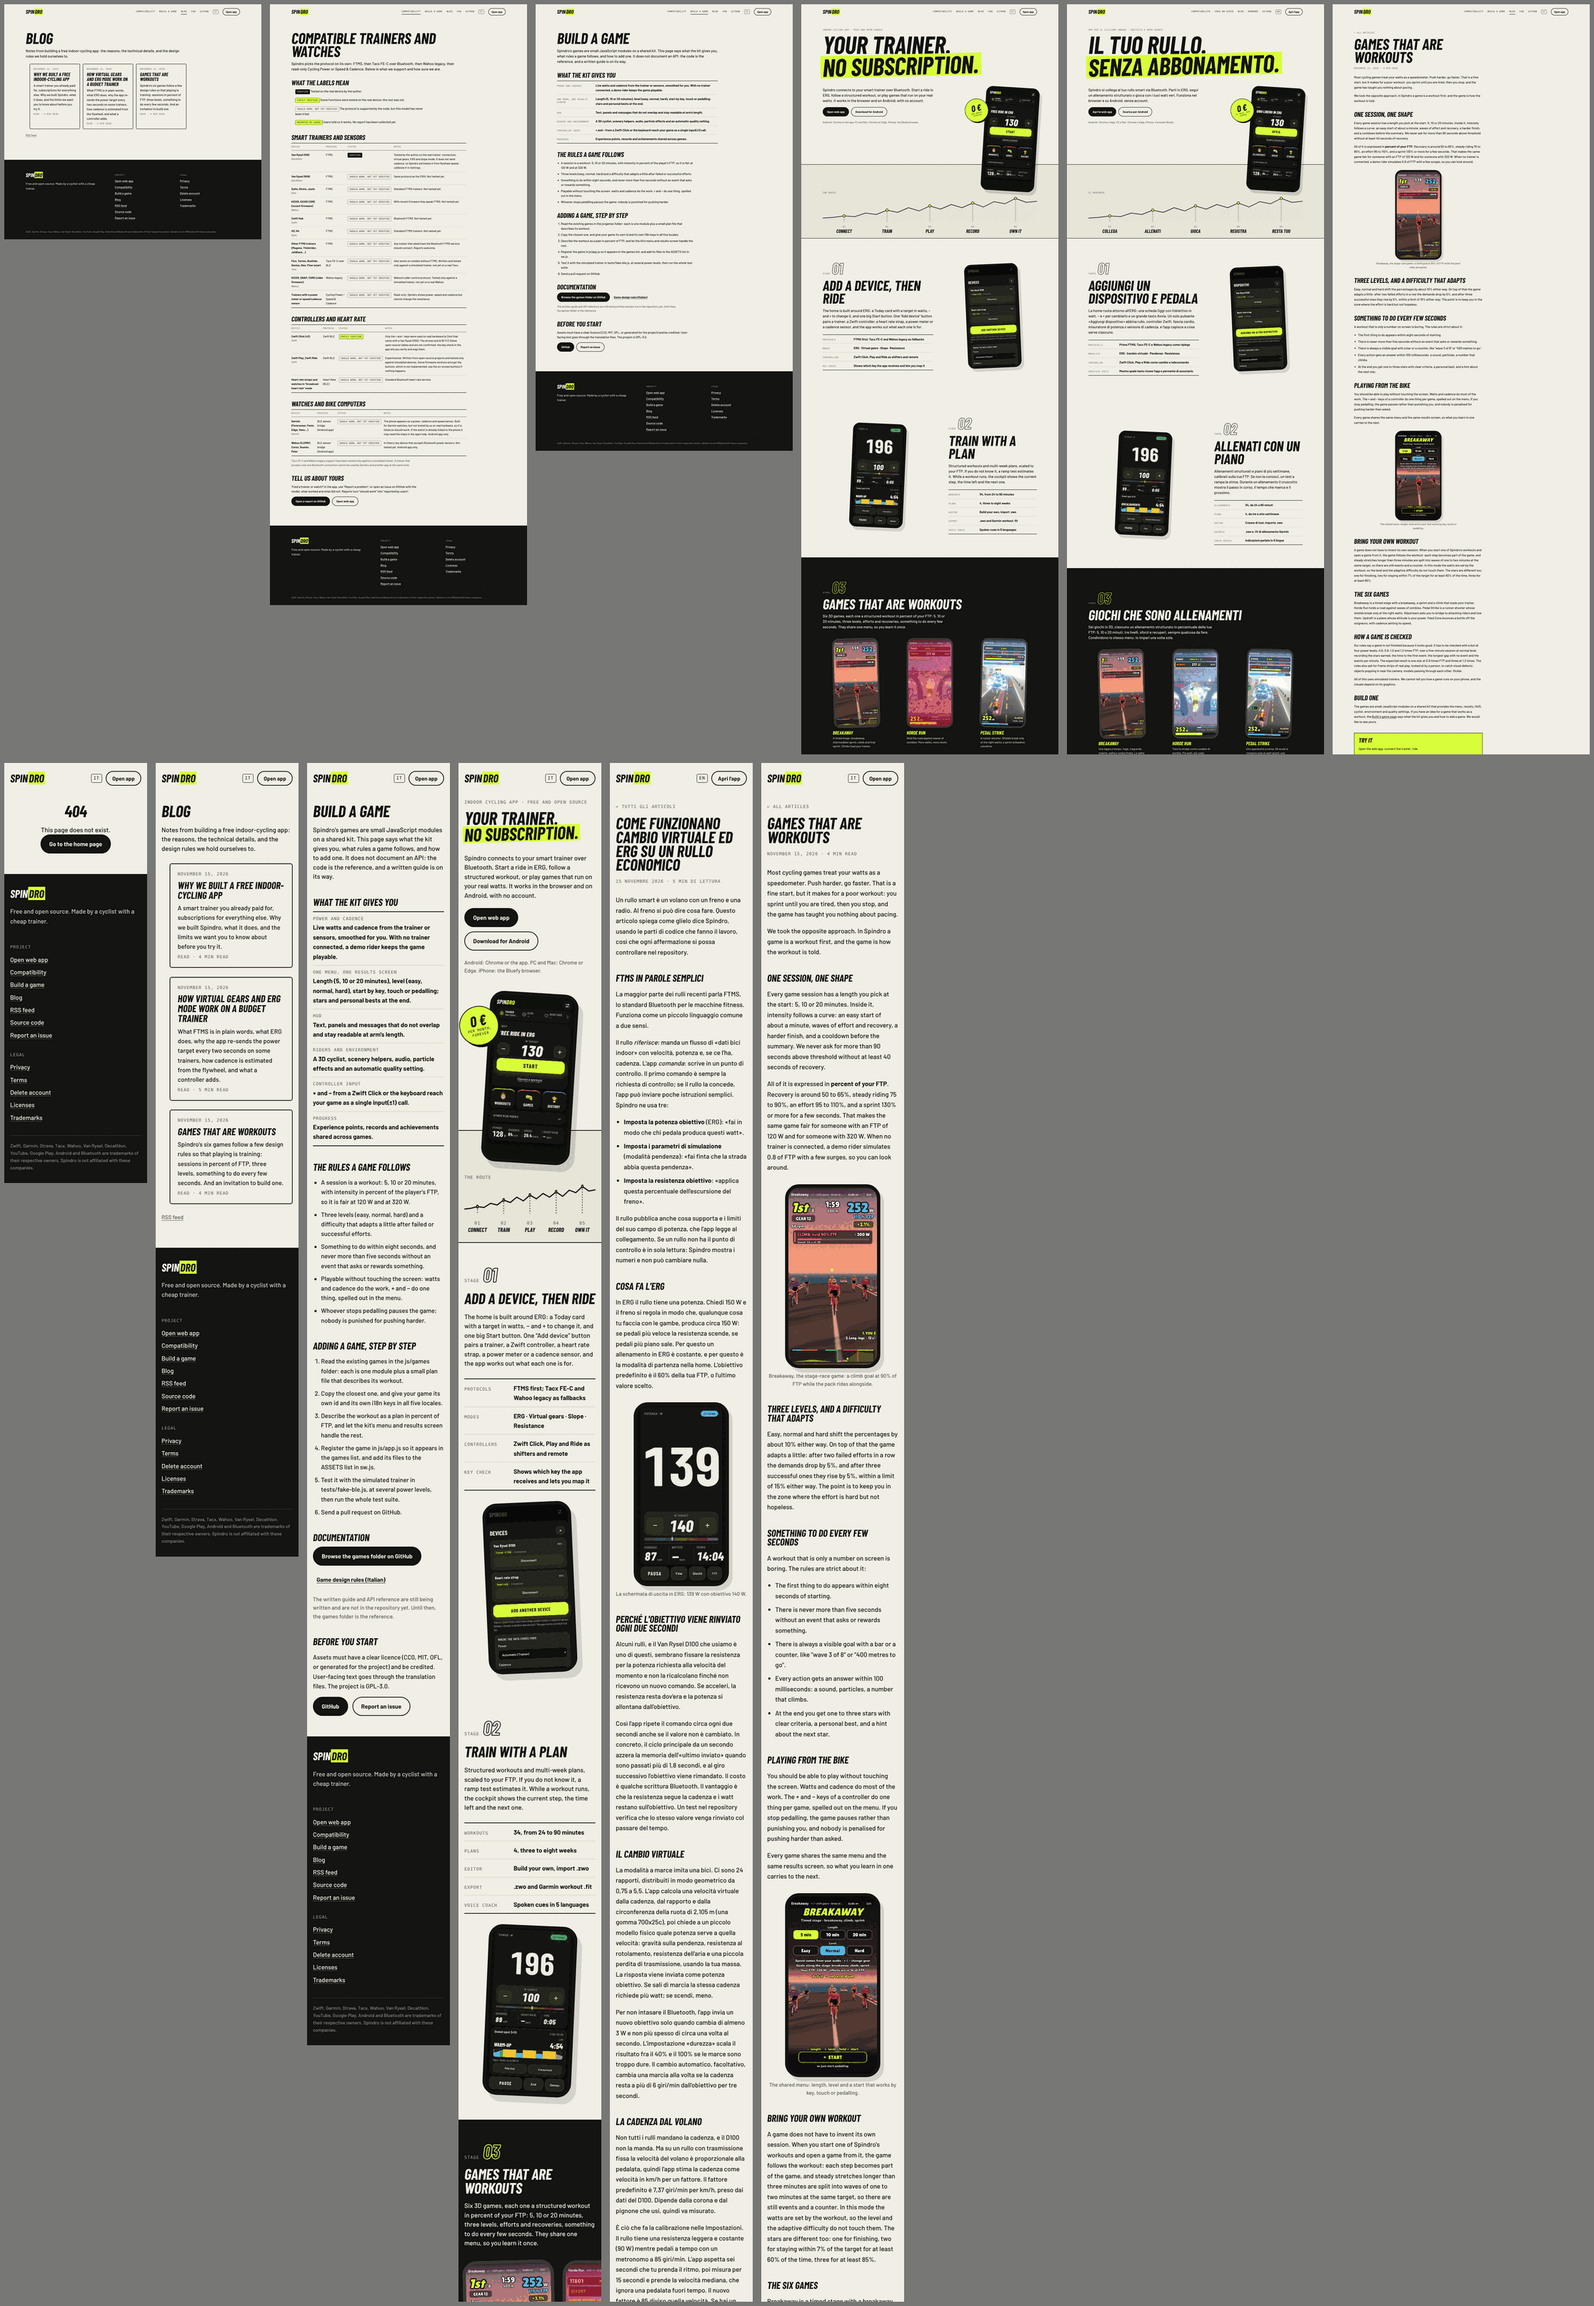
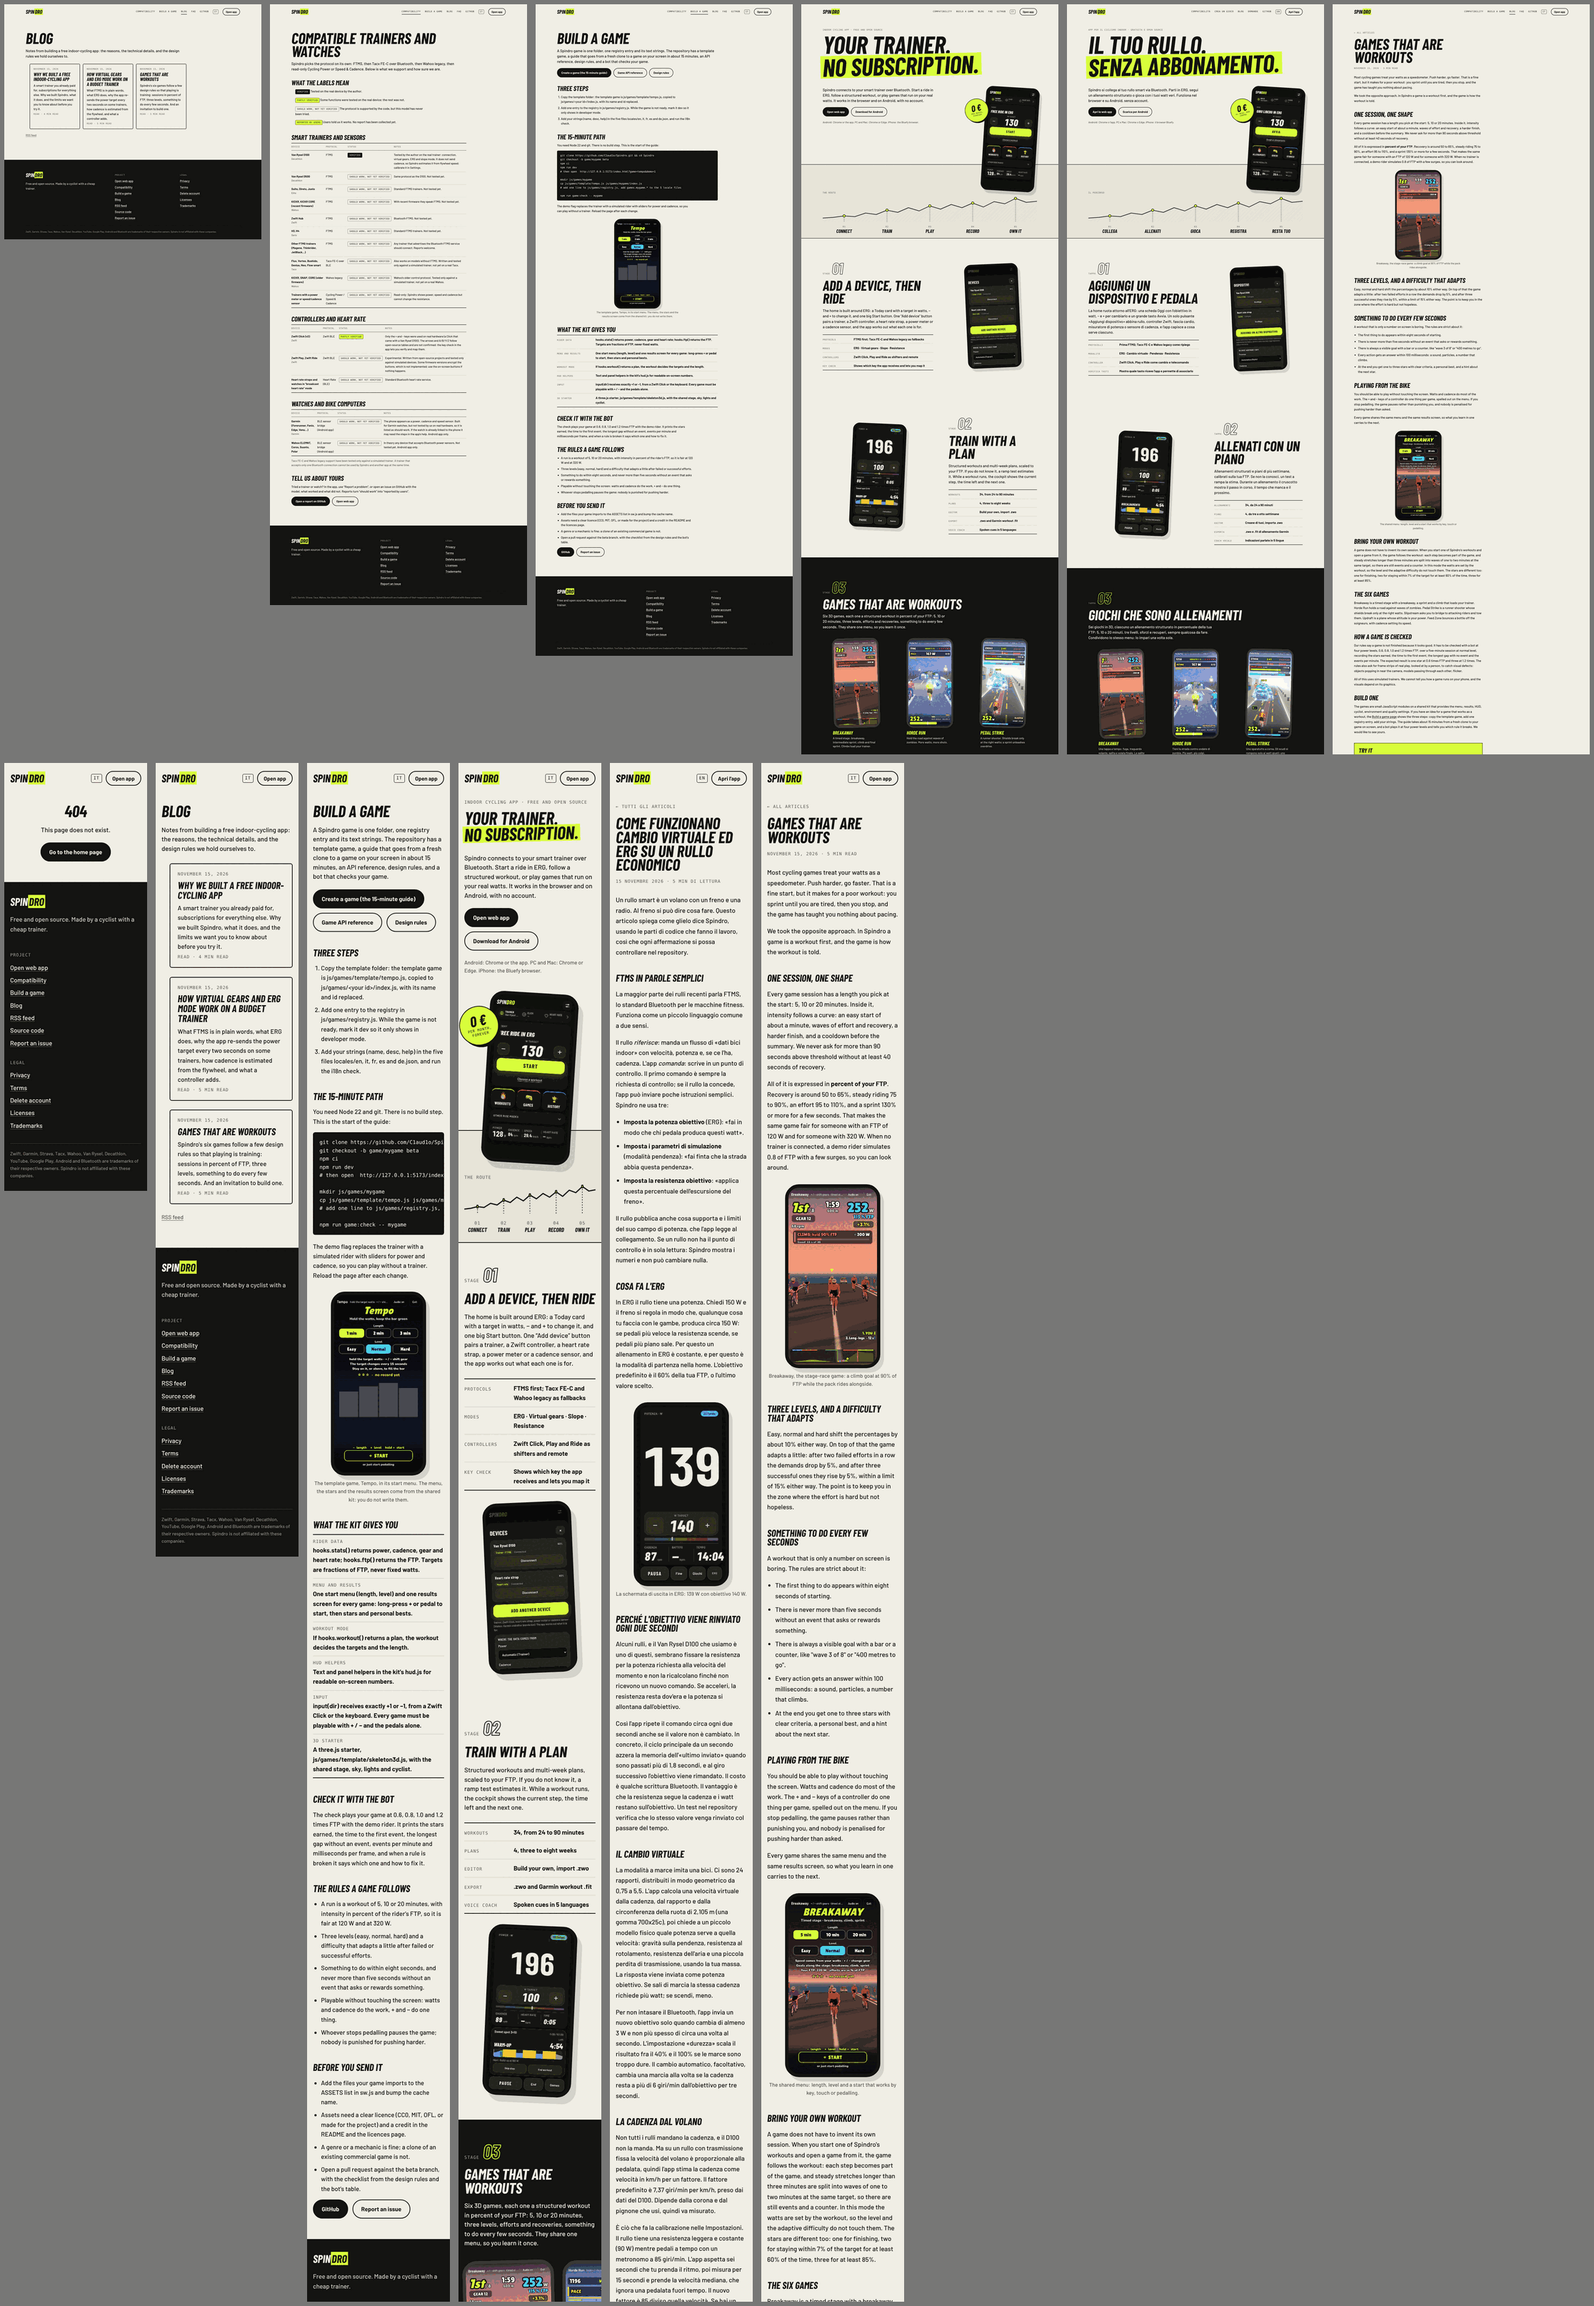
Retake the Horde Run screenshot in the first wave; spacing on the developers page; refresh the contact sheet

diff --git a/site/assets/style.css b/site/assets/style.css
@@ -258,3 +258,4 @@ details p { margin: 0 0 18px; max-width: 46em; color: #2c2b27; }
 .badge.partial { background: var(--lime); border-style: solid; }
 .cmd { margin: 0 0 18px; padding: 16px 18px; background: var(--ink); color: var(--paper); border-radius: 6px; overflow-x: auto; font: .88rem/1.6 var(--mono); }
 .cmd code { background: none; padding: 0; color: inherit; font: inherit; white-space: pre; }
+.prose .lead + .btns { margin-top: 22px; }
